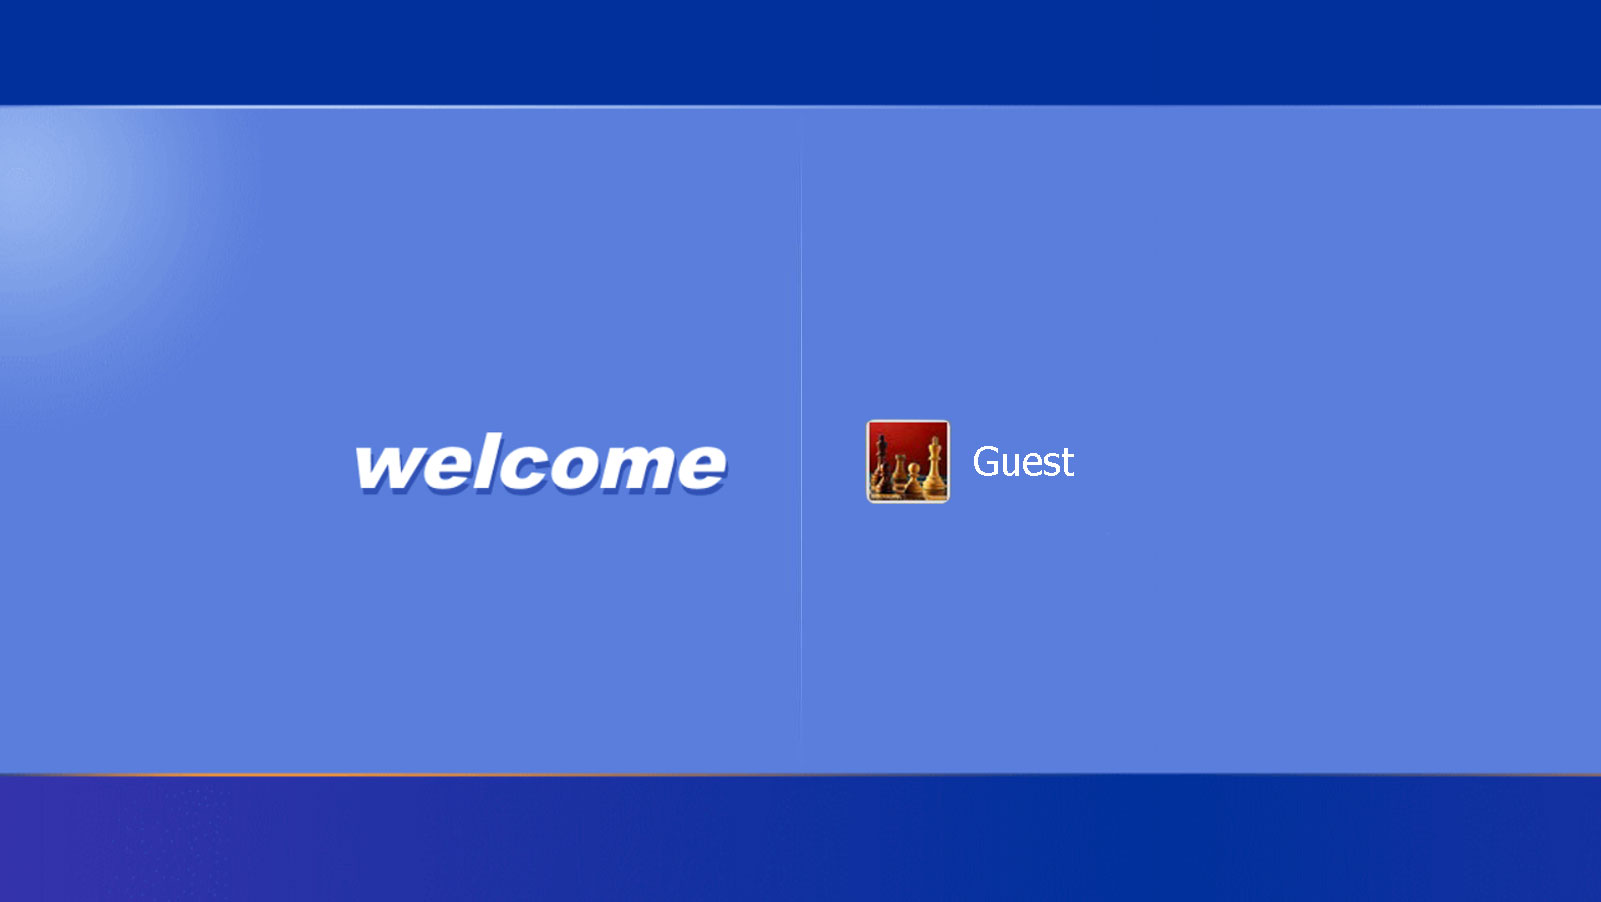
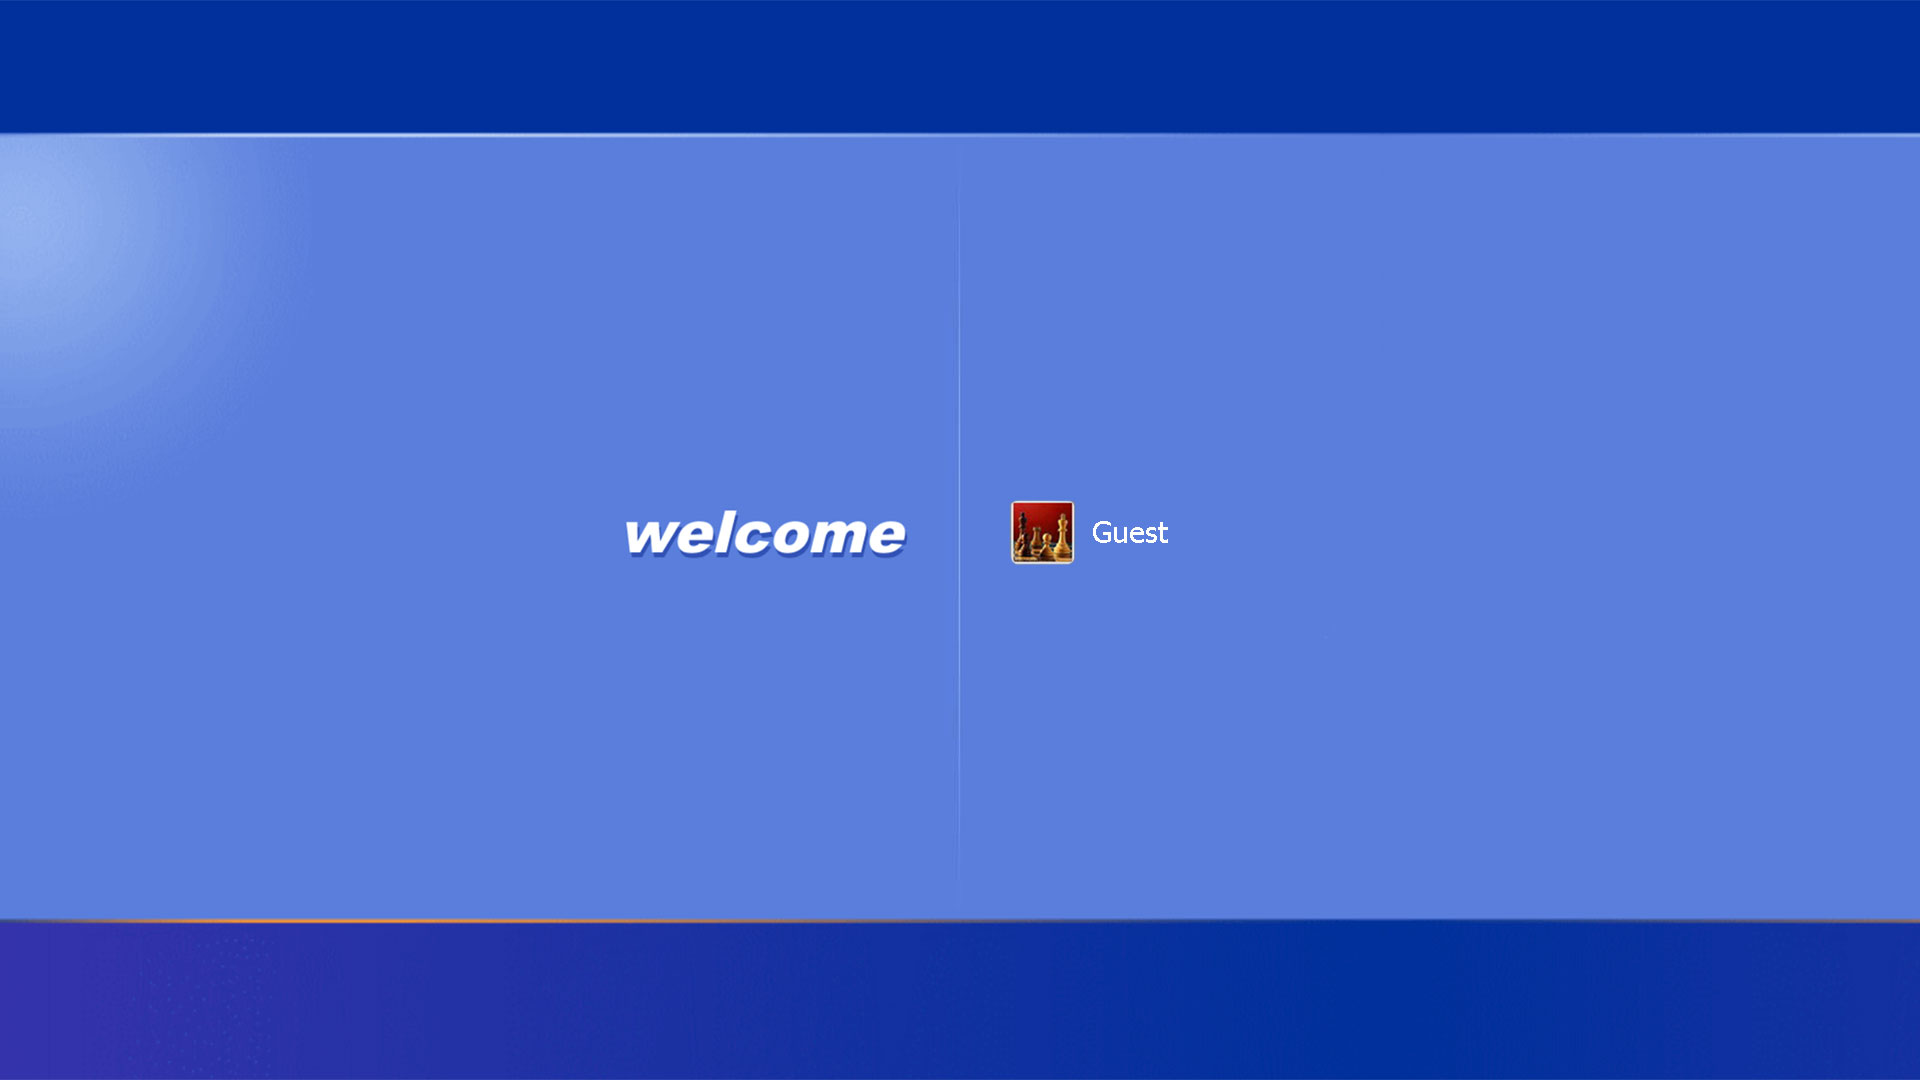
Welcome Screen

diff --git a/index.html b/index.html
@@ -3,35 +3,15 @@
     <meta charset='utf-8'>
     <meta name="viewport" content="width=device-width, initial-scale=1.0">
     <title> Alan's Portfolio </title>
-    <link rel='stylesheet' href='css/styles.css'>
+    <link rel='stylesheet' href='css/welcomestyles.css'>
 </head>
 
 <body>
-    <div class="desktop"> 
-        <div class="icon documents clicked" onclick="window.open(' https://github.com/alanhafeed')">
-            <img src="images/documents.png">
-            <div class="icon-name">Alan Hafeed</div>
-        </div>
-        <div class="icon projects clicked" onclick="window.location.href='project.html';">
-            <img src="images/monitor1.png">
-            <div class="icon-name">My Projects</div>
-        </div>
-        <div class="icon1 information clicked" onclick="window.open('https://www.linkedin.com/in/alan-hafeed-b3793a239/')">
-            <img src="images/network.png">
-            <div class="icon-name">My Information</div>
-        </div>
-        <div class="icon2 recycle clicked">
-            <img src="images/recycle.png">
-            <div class="icon-name">Recycle Bin</div>
-        </div>
-        <div class="icon3 startMenu" id="icon3">
-            <img src="images/StartMenu.png">
+    <div class="welcome">
+        <div class="guestIcon" onclick="setTimeout(function() { window.location.href = 'desktop.html'; }, 4000);">
+            <img src="images/guestIcon.png" onclick="playSound()">
         </div>          
-        <div class="icon4 start" id="icon4">
-            <img src="images/start.jpg">
-        </div>          
-        <div class="taskbar"></div>
-        <div class="time"></div>
-        <script type="text/javascript" src="main.js"></script>
+        <script type="text/javascript" src="welcome.js"></script>
+    </div>
 </body>
 </html>

diff --git a/desktop.html b/desktop.html
@@ -1,0 +1,38 @@
+<html lang="en">
+<head>
+    <meta charset='utf-8'>
+    <meta name="viewport" content="width=device-width, initial-scale=1.0">
+    <title> Alan's Portfolio </title>
+    <link rel='stylesheet' href='css/styles.css'>
+</head>
+
+<body>
+    <div class="desktop"> 
+        <script type="text/javascript" src="welcome.js"></script>
+        <div class="icon documents clicked" onclick="window.open(' https://github.com/alanhafeed')">
+            <img src="images/documents.png">
+            <div class="icon-name">Alan Hafeed</div>
+        </div>
+        <div class="icon projects clicked" onclick="window.location.href='project.html';">
+            <img src="images/monitor1.png">
+            <div class="icon-name">My Projects</div>
+        </div>
+        <div class="icon1 information clicked" onclick="window.open('https://www.linkedin.com/in/alan-hafeed-b3793a239/')">
+            <img src="images/network.png">
+            <div class="icon-name">My Information</div>
+        </div>
+        <div class="icon2 recycle clicked">
+            <img src="images/recycle.png">
+            <div class="icon-name">Recycle Bin</div>
+        </div>
+        <div class="icon3 startMenu" id="icon3">
+            <img src="images/StartMenu.png">
+        </div>          
+        <div class="icon4 start" id="icon4">
+            <img src="images/start.jpg">
+        </div>          
+        <div class="taskbar"></div>
+        <div class="time"></div>
+        <script type="text/javascript" src="main.js"></script>
+</body>
+</html>

diff --git a/main.js b/main.js
@@ -10,6 +10,12 @@ function updateTime() {
     document.querySelector('.time').innerHTML = timeString;
 }
 
+function playSound() {
+    var sound = new Audio('sounds/startup.mp3');
+    console.log("balls");
+    sound.play();
+}
+
 // Call updateTime function every second
 setInterval(updateTime, 1000);
 
@@ -20,10 +26,12 @@ let isVisable = true;
 
 icon4.addEventListener('click', () => {
   if (isVisable) {
-    icon3.style.display = 'none';
-  } else {
     icon3.style.display = 'block';
+  } else {
+    icon3.style.display = 'none';
   }
   isVisable = !isVisable; // Toggle the state
 });
+
+
 

diff --git a/css/styles.css b/css/styles.css
@@ -15,6 +15,7 @@ body {
     display: flex;
     flex-direction: column;
     align-items: flex-start;
+    z-index: 3;
 }
 
 .taskbar {
@@ -130,4 +131,23 @@ body {
     display: none;
     z-index: 3;
 }
+
+.welcome{
+    color: white;
+    display: flex;
+    flex-direction: column;
+    align-items: flex-start;
+    z-index: 4;
+}
   
+.guesticon{
+    position: absolute;
+    bottom: 10px;
+    left: 58px;
+    display: flex;
+    flex-direction: column;
+    align-items: center;
+    margin-left: -56px;
+    display: none;
+    z-index: 3;
+}

diff --git a/css/welcomestyles.css b/css/welcomestyles.css
@@ -1,0 +1,19 @@
+html {
+    cursor: url('/images/xp_arrow.png'), auto;
+}
+
+body {
+    margin: 0;
+    padding: 0;
+    background-image: url('/images/WelcomeScreen.jpg');
+    background-size: cover;
+    background-position: center;
+}
+
+.guesticon {
+    display: flex;
+    flex-direction: column;
+    align-items: center;
+    margin-top: 425px;
+    margin-left: 165px;
+}

diff --git a/welcome.js b/welcome.js
@@ -1,0 +1,5 @@
+function playSound() {
+    var sound = new Audio('sounds/startup.mp3');
+    console.log("balls");
+    sound.play();
+}
